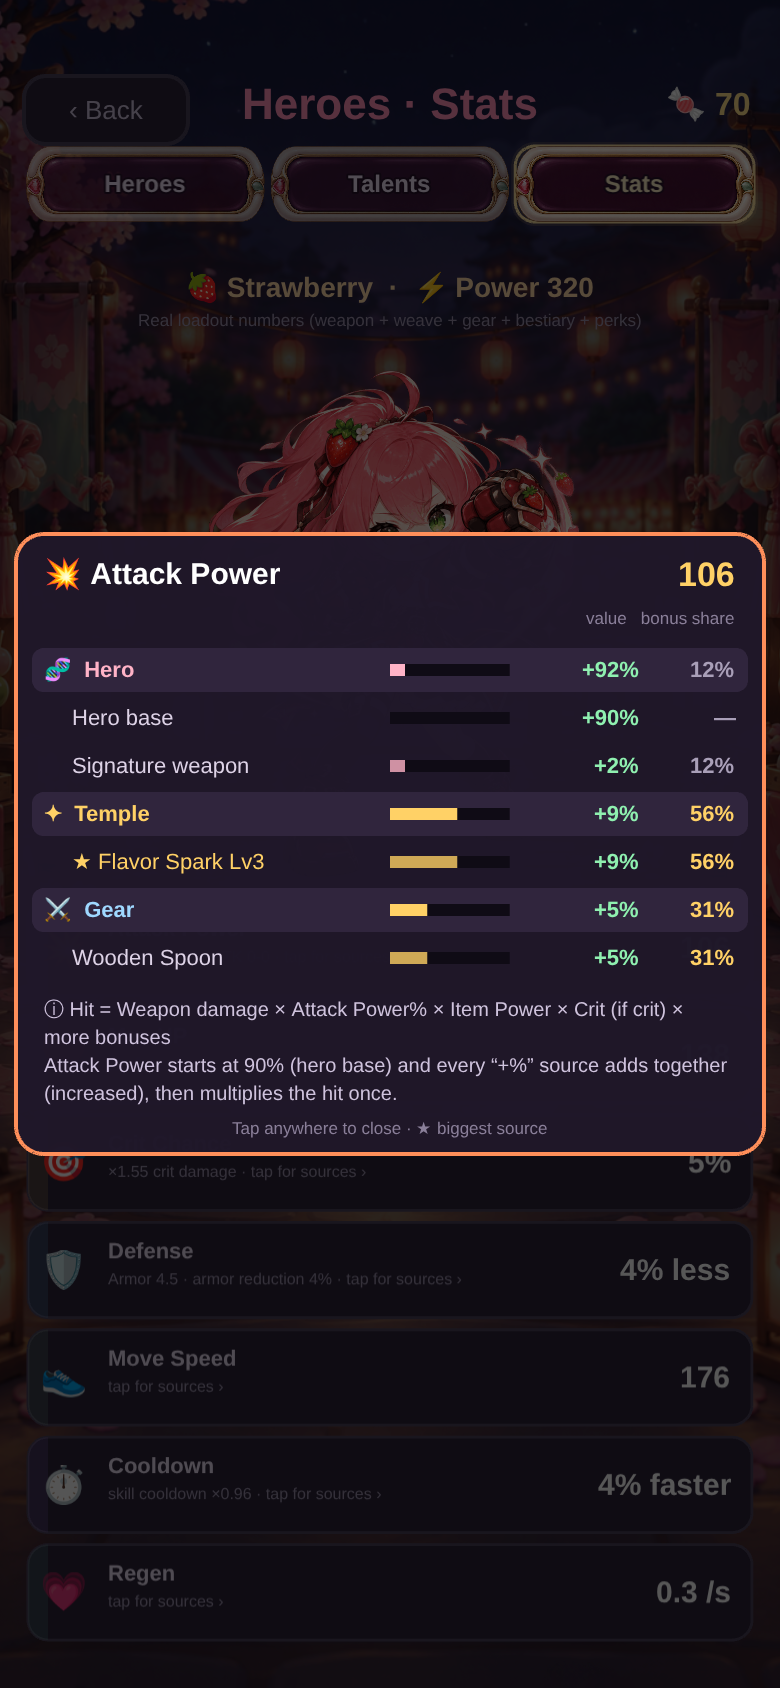
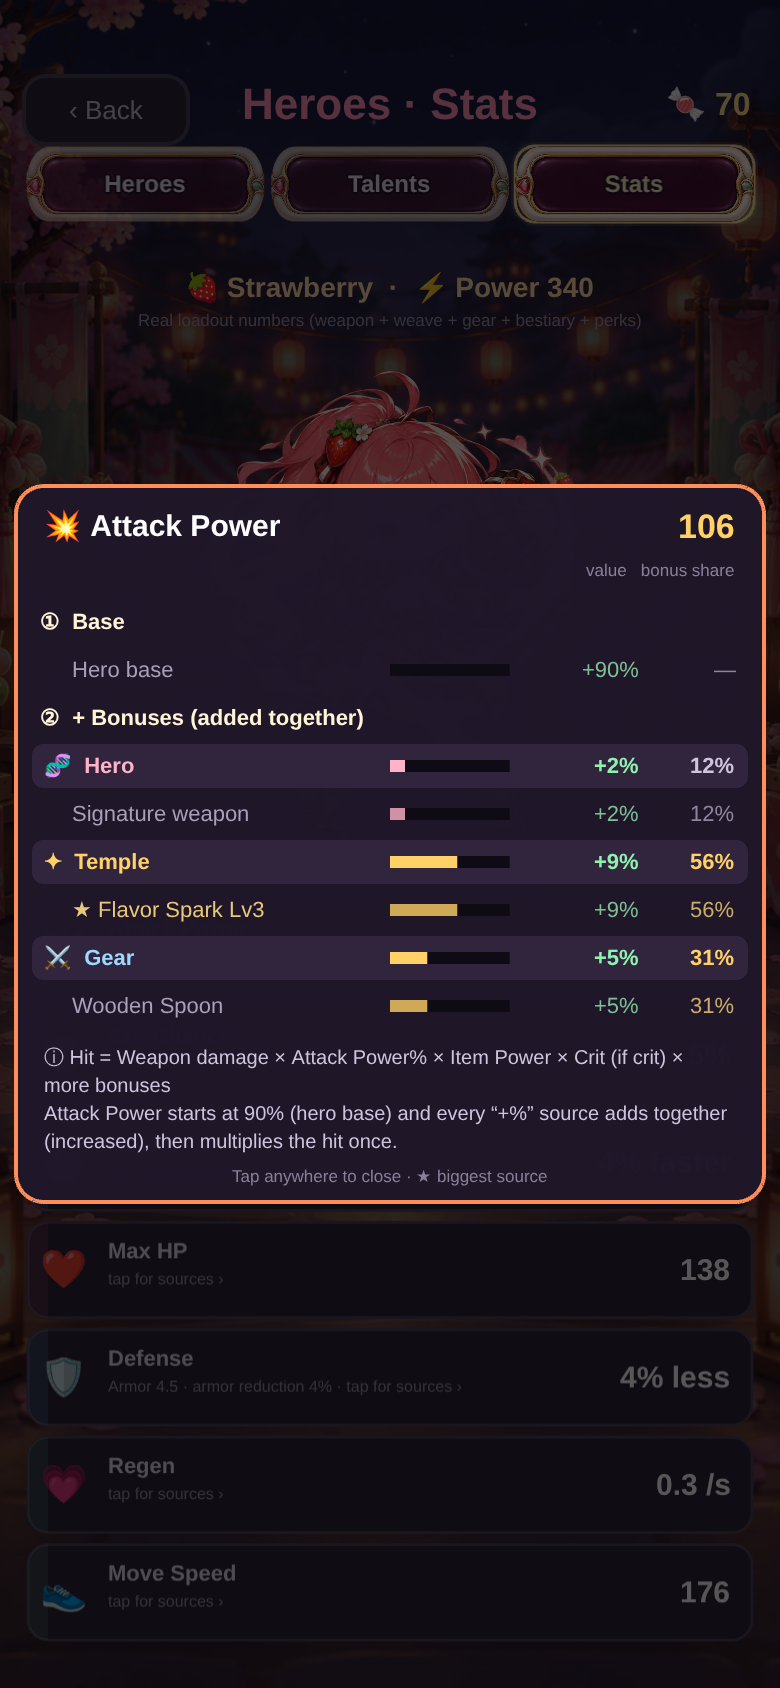
feat: order stats and breakdown by formula, soften sub-row colors (v6.55.25)
Claude-Session: https://claude.ai/code/session_01Je24fSjffqCWWdm2UGg2b2

diff --git a/game.js b/game.js
@@ -50,7 +50,7 @@ function clampPlayerStats(p){ if(p._uqGlass){p.maxhp=Math.max(1,Math.round(p.max
 const TAU = Math.PI * 2;   // global — Game scene (บอส/VFX) อ้างถึง TAU ด้วย เดิมประกาศเฉพาะใน Boot.create → "TAU is not defined"
 
 /* ---- เวอร์ชัน + บันทึกUpdates (build-www ดึงไปทำ version.json ให้หน้า download) ---- */
-const GAME_VERSION = '6.55.24';
+const GAME_VERSION = '6.55.25';
 // Miniboss rewards: choose damage at an HP cost, or recovery.
 const CROSSROADS=[
   {id:'blood',name:'Blood Pact',desc:'+25% damage for 90 seconds',detail:'Lose 30% of current HP',artKey:'prize_jackpot',color:0xff6f9d},
@@ -62,6 +62,7 @@ const RELEASES_URL = 'https://github.com/hardza1230/Survival-like-Mobile-Game/re
 // v6.55.17: HP บอส/มินิ ด่าน 3-5 (Chapter 1) ของจริง
 function realStageBossMul(i){return i===2||i===3?1.6:i===4?1.25:1;}
 const CHANGELOG = [
+  {v:'6.55.25',date:'2026-10-04',title:'Stats follow the formula',items:['Stats page ordered offense → defense → movement','Breakdown panel reads top to bottom like the formula: Base, bonuses, separate multipliers','Sub-rows use softer colors than group headers']},
   {v:'6.55.24',date:'2026-10-04',title:'Clearer stat breakdown',items:['Stat sources grouped into Hero, Temple, Gear and Progress with icons','Each source shows its share % and a bar; the biggest source is starred','Every stat explains its formula in plain words']},
   {v:'6.55.23',date:'2026-10-04',title:'Slower hero levels',items:['Hero level EXP requirement now grows faster at higher levels']},
   {v:'6.55.22',date:'2026-10-04',title:'Detailed stat sources',items:['Stat breakdown lists each talent, Weave core, gear piece, item-level bonus, mod line, set and perk separately','Gear lines show item level, enhance level and base scaling']},
@@ -6084,18 +6085,18 @@ class Game extends Phaser.Scene {
     const note=this.add.text(w/2,y,'Real loadout numbers (weapon + weave + gear + bestiary + perks)',{fontFamily:'sans-serif',fontSize:'8.5px',color:'#9a90ab'}).setOrigin(0.5); this.menu.add([hd,note]); y+=22;
     const rows=[
       ['💥','Attack Power',Math.round(p.dmgMul*100)+'','Power ×'+(p.powerMul||1).toFixed(2)+' · ATK '+(p.gearAttackMin||0)+'-'+(p.gearAttackMax||0),0xff8f5a],
-      ['❤','Max HP',Math.round(p.maxhp)+'','',0xff5f7a],
       ['🎯','Crit Chance',Math.round(p.critChance*100)+'%','×'+p.critMul.toFixed(2)+' crit damage',0xffd166],
-      ['🛡','Defense',Math.round((1-p.dmgTakenMul*armorDamageMultiplier(p))*100)+'% less','Armor '+(p.armor||0)+' · armor reduction '+Math.round((1-armorDamageMultiplier(p))*100)+'%',0x6ec6ff],
-      ['👟','Move Speed',Math.round(p.baseSpeed)+'','',0x8bd3a0],
       ['⏱','Cooldown',Math.round((1-p.cdMul)*100)+'% faster','skill cooldown ×'+p.cdMul.toFixed(2),0xb388ff],
+      ['❤','Max HP',Math.round(p.maxhp)+'','',0xff5f7a],
+      ['🛡','Defense',Math.round((1-p.dmgTakenMul*armorDamageMultiplier(p))*100)+'% less','Armor '+(p.armor||0)+' · armor reduction '+Math.round((1-armorDamageMultiplier(p))*100)+'%',0x6ec6ff],
       ['💗','Regen',((p.regen||0)+(p.regenFlat||0)).toFixed(1)+' /s','',0x66d3b3],
+      ['👟','Move Speed',Math.round(p.baseSpeed)+'','',0x8bd3a0],
     ];
     // v4.65: แนวตั้งมีที่เหลือเยอะ → ใส่อาร์ตตัวละครด้านบน แล้วขยายแถวให้เต็มจอ
     const portrait=w<=this.H,gap=6,cardW=w-28;
     if(portrait){ const artH=Math.min(260,Math.max(0,this.H-y-rows.length*(40+gap)-40)); if(artH>120){ this._characterCardArt(Save.data.character,w/2,y+artH/2,w*0.7,artH); y+=artH+8; } }
     const rh=portrait?Phaser.Math.Clamp((this.H-y-24-gap*(rows.length-1))/rows.length,40,58):40;
-    const keys=['dmgMul','maxhp','critChance','dmgTakenMul','baseSpeed','cdMul','regen'];
+    const keys=['dmgMul','critChance','cdMul','maxhp','dmgTakenMul','regen','baseSpeed'];   // v6.55.25: เรียงตามสูตร — โจมตี → ป้องกัน → เคลื่อนที่
     rows.forEach((r,i)=>{ const ry=y+i*(rh+gap),g=this.add.graphics();this._zone(14,ry,cardW,rh,()=>{Sfx.select&&Sfx.select();this.showStatSources(p,keys[i],r);}); g.fillStyle(0x2c2338,1); g.fillRoundedRect(14,ry,cardW,rh,10); g.lineStyle(1.4,0x4a4059,1); g.strokeRoundedRect(14,ry,cardW,rh,10); g.fillStyle(r[4],0.16); g.fillRoundedRect(14,ry,5,rh,{tl:10,bl:10,tr:0,br:0});
       const em=this.add.text(32,ry+rh/2,r[0],{fontSize:'19px'}).setOrigin(0.5);
       const nm=this.add.text(54,ry+8,r[1],{fontFamily:'sans-serif',fontStyle:'bold',fontSize:'11px',color:'#e8dcf0'}).setOrigin(0,0);
@@ -6119,16 +6120,19 @@ class Game extends Phaser.Scene {
     const items=[];if(tr[0])items.push({label:'Base',v:val(tr[0].s),base:true});
     for(let i=1;i<tr.length;i++){const d=val(tr[i].s)-val(tr[i-1].s);if(Math.abs(d)>1e-6)items.push({label:tr[i].label,v:d});}
     const posSum=items.reduce((a,it)=>a+(it.base?0:Math.max(0,it.v)),0)||1;let top=null;for(const it of items)if(!it.base&&it.v>0&&(!top||it.v>top.v))top=it;   // share = สัดส่วนของโบนัส (ไม่รวม Base)
-    const lines=[];GROUPS.forEach(g=>{const its=items.filter(it=>!it._g&&g.test(it.label));if(!its.length)return;its.forEach(it=>it._g=1);const sub=its.reduce((a,it)=>a+it.v,0),bsub=its.reduce((a,it)=>a+(it.base?0:Math.max(0,it.v)),0);
+    const lines=[],bIt=items.find(it=>it.base);if(bIt){bIt._g=1;lines.push({step:true,label:'①  Base'});lines.push({g:GROUPS[0],label:'Hero base',v:bIt.v,base:true,pct:0});}
+    lines.push({step:true,label:key==='dmgMul'||key==='critChance'||key==='regen'?'②  + Bonuses (added together)':key==='maxhp'?'②  + Flat, then × %':'②  × Bonuses (multiplied)'});
+    GROUPS.forEach(g=>{const its=items.filter(it=>!it._g&&g.test(it.label));if(!its.length)return;its.forEach(it=>it._g=1);const sub=its.reduce((a,it)=>a+it.v,0),bsub=its.reduce((a,it)=>a+(it.base?0:Math.max(0,it.v)),0);
       lines.push({hdr:true,g,label:g.icon+'  '+g.name,v:sub,pct:bsub/posSum*100});its.sort((a,b)=>(a.base?-1:b.base?1:b.v-a.v)).forEach(it=>lines.push({g,label:it.base?'Hero base':it.label.replace(/^(Talent|Weave|Gear|Mod|Set collection|Set|Perk) · /,''),v:it.v,base:it.base,pct:it.base?0:Math.max(0,it.v)/posSum*100,top:it===top}));});
     const FORM={dmgMul:'Hit = Weapon damage × Attack Power% × Item Power × Crit (if crit) × more bonuses\nAttack Power starts at 90% (hero base) and every “+%” source adds together (increased), then multiplies the hit once.',
       maxhp:'Max HP = Base 90 + flat HP sources, then × % HP sources (Vigor, Resolve, Ancient).',
       critChance:'Crit chance = sum of all crit % · Crit hit = damage × Crit damage ('+'×'+p.critMul.toFixed(2)+')',
       dmgTakenMul:'Damage taken = Hit × 100/(100+Armor) × each “less damage” source multiplied together.\nArmor gives less and less as it grows — never reaches 100%.',
       baseSpeed:'Speed = Base × each % speed source multiplied.',cdMul:'Cooldown = Base cooldown × each “faster” source multiplied.',regen:'Regen = sum of all HP/s sources.'};
-    if(key==='dmgMul'&&(p.powerMul||1)!==1)lines.push({note:true,label:'⚡ Weapon Item Power ×'+p.powerMul.toFixed(2)+' (multiplies separately)'});
-    if(key==='critChance')lines.push({note:true,label:'💥 Crit damage ×'+p.critMul.toFixed(2)});
-    if(key==='dmgTakenMul')lines.push({note:true,label:'🛡 Armor '+Math.round(p.armor||0)+' → −'+Math.round((1-armorDamageMultiplier(p))*100)+'% damage'});
+    const multi=[];if(key==='dmgMul'&&(p.powerMul||1)!==1)multi.push({note:true,label:'⚡ Weapon Item Power ×'+p.powerMul.toFixed(2)+' (multiplies separately)'});
+    if(key==='critChance')multi.push({note:true,label:'💥 Crit damage ×'+p.critMul.toFixed(2)});
+    if(key==='dmgTakenMul')multi.push({note:true,label:'🛡 Armor '+Math.round(p.armor||0)+' → −'+Math.round((1-armorDamageMultiplier(p))*100)+'% damage'});
+    if(multi.length){lines.push({step:true,label:'③  × Separate multipliers'});lines.push(...multi);}
     const ov=this.add.container(0,0).setDepth(150000),bg=this.add.rectangle(w/2,h/2,w,h,0x000000,0.66),pw=Math.min(w-16,430),px=(w-pw)/2;
     const ftxt=this.add.text(0,0,'ⓘ '+(FORM[key]||''),{fontFamily:'sans-serif',fontSize:'10px',color:'#cfc3dd',wordWrap:{width:pw-28},lineSpacing:2});
     const avail=h-60-64-ftxt.height-24,rh=Math.max(14,Math.min(24,avail/Math.max(1,lines.length))),ph=64+lines.length*rh+ftxt.height+24,py=Math.max(24,(h-ph)/2),g=this.add.graphics();
@@ -6137,11 +6141,12 @@ class Game extends Phaser.Scene {
     const hc=this.add.text(px+pw-14,py+42,'value   bonus share',{fontFamily:'sans-serif',fontSize:'8.5px',color:'#8a7f99'}).setOrigin(1,0.5);ov.add([bg,g,t,tv,hc]);
     const fs=rh<18?'9.5px':'11px',barX=px+pw*0.50,barW=pw*0.16;
     lines.forEach((l,i)=>{const ly=py+56+i*rh+rh/2;
+      if(l.step){ov.add(this.add.text(px+12,ly,l.label,{fontFamily:'sans-serif',fontStyle:'bold',fontSize:fs,color:'#fff4d6'}).setOrigin(0,0.5));return;}
       if(l.note){ov.add(this.add.text(px+14,ly,l.label,{fontFamily:'sans-serif',fontSize:fs,color:'#ffd9a8'}).setOrigin(0,0.5));return;}
       if(l.hdr){const hb=this.add.graphics();hb.fillStyle(0x30253d,1);hb.fillRoundedRect(px+8,ly-rh/2+1,pw-16,rh-2,6);ov.add(hb);}
-      const x0=l.hdr?px+14:px+28,a=this.add.text(x0,ly,(l.top?'★ ':'')+l.label,{fontFamily:'sans-serif',fontStyle:l.hdr?'bold':'normal',fontSize:fs,color:l.top?'#ffd166':l.hdr?l.g.col:'#ddd2e6',fixedWidth:barX-x0-6}).setOrigin(0,0.5);
-      const b=this.add.text(px+pw-62,ly,fmt(l.v),{fontFamily:'sans-serif',fontStyle:'bold',fontSize:fs,color:l.v<0?'#ff9bb5':'#8ff0b0'}).setOrigin(1,0.5);
-      const pc=this.add.text(px+pw-14,ly,l.v>0&&!l.base?Math.round(l.pct)+'%':'—',{fontFamily:'sans-serif',fontStyle:'bold',fontSize:fs,color:l.pct>=30?'#ffd166':'#a99fb8'}).setOrigin(1,0.5);
+      const x0=l.hdr?px+14:px+28,a=this.add.text(x0,ly,(l.top?'★ ':'')+l.label,{fontFamily:'sans-serif',fontStyle:l.hdr?'bold':'normal',fontSize:fs,color:l.top?'#e8c87a':l.hdr?l.g.col:'#a99fb8',fixedWidth:barX-x0-6}).setOrigin(0,0.5);
+      const b=this.add.text(px+pw-62,ly,fmt(l.v),{fontFamily:'sans-serif',fontStyle:l.hdr?'bold':'normal',fontSize:fs,color:l.v<0?(l.hdr?'#ff9bb5':'#c98a9c'):(l.hdr?'#8ff0b0':'#7fbf96')}).setOrigin(1,0.5);
+      const pc=this.add.text(px+pw-14,ly,l.v>0&&!l.base?Math.round(l.pct)+'%':'—',{fontFamily:'sans-serif',fontStyle:l.hdr?'bold':'normal',fontSize:fs,color:l.pct>=30?(l.hdr?'#ffd166':'#c9ad6a'):(l.hdr?'#cfc3dd':'#8f859e')}).setOrigin(1,0.5);
       const bar=this.add.graphics();bar.fillStyle(0x0f0b15,1);bar.fillRect(barX,ly-3,barW,6);if(l.v>0&&!l.base){bar.fillStyle(l.top||l.pct>=30?0xffd166:Phaser.Display.Color.HexStringToColor(l.g.col).color,l.hdr?1:0.8);bar.fillRect(barX,ly-3,barW*Math.min(1,l.pct/100),6);}
       ov.add([a,b,pc,bar]);});
     ftxt.setPosition(px+14,py+56+lines.length*rh+8);ov.add(ftxt);

diff --git a/CLAUDE.md b/CLAUDE.md
@@ -229,7 +229,8 @@ Dedicated deterministic forge WAVs for manual/auto roulette, visual tick cadence
 - **v6.55.23 (เจ้าของ: เลเวลตัวละครขึ้นไว):** `charExpNeed` 40+35l → 50+40·l^1.35 (สะสมถึง Lv10 2.3k→4.8k, Lv20 8.2k→21.6k) · `characterExpProgress` เปลี่ยนเป็นวนลูป · **รอเจ้าของเลือก: talent เฉพาะสาย**
 - **v6.55.24 (เจ้าของ: แผงที่มา stat ให้จัดกลุ่ม/ไอคอน/% Pareto/สูตร):** `showStatSources` เขียนใหม่ · กลุ่ม 🧬 Hero / ✦ Temple / ⚔ Gear / 🏆 Progress / 🔒 Limits (หัวกลุ่ม + ยอดรวม) · ทุกแถว value + แถบ + bonus share % (คิดเฉพาะโบนัส ไม่รวม Hero base) · ★ แหล่งใหญ่สุด, ≥30% สีทอง · กล่อง ⓘ สูตรอ่านง่ายต่อ stat (Attack Power = 90% base + increased บวกกัน แล้วคูณ Item Power/Crit) · **บั๊ก:** ช่องว่าง 'None' (tier start) ได้โบนัส iLv → `applyItemLevelBonus` ข้าม tier start · ตรวจภาพด้วย Chromium (`/opt/pw-browsers` ใช้ได้ในเครื่องนี้) ภาพที่ docs/previews/stats_sources_v6_55_24.png
 - **งานถัดไปที่เจ้าของจองไว้: Talent เฉพาะสาย** ตาม `docs/TALENT_PATH_DESIGN.md` (ยังรอตอบ 3 คำถามท้ายไฟล์)
-- **เวอร์ชันปัจจุบัน v6.55.24** (`GAME_VERSION`) · สาขา `claude/gallant-shannon-vx0est` · Monster animation commit 1–6 เสร็จ (ดูหัวไฟล์)
+- **v6.55.25 (เจ้าของ: เรียงตามสูตร + กลุ่มย่อยสีอ่อนกว่า):** หน้า Stats เรียง Attack Power → Crit → Cooldown → Max HP → Defense → Regen → Move Speed · แผงที่มาเป็นขั้น ① Base → ② Bonuses (บวกกัน/คูณกัน ตาม stat) → ③ × Separate multipliers (Item Power/Crit dmg/Armor) · แถวย่อยตัวหนังสือ/ตัวเลข/% สีอ่อนและไม่หนา หัวกลุ่มเข้มหนา
+- **เวอร์ชันปัจจุบัน v6.55.25** (`GAME_VERSION`) · สาขา `claude/gallant-shannon-vx0est` · Monster animation commit 1–6 เสร็จ (ดูหัวไฟล์)
 - **งานค้าง:** (1) Monster animation commit 7 Chapter 2 ด่าน 1–2 รวม Sporeling → 8 Nectar รวม Tiny Grub → 9 Season/Root → 10 Elite/summon รวม Mini Jelly + Chapter 3 generic Elite + รีวิวภาพ/ประสิทธิภาพบนมือถือ (`docs/MONSTER_ANIMATION_PLAN.md`) (2) รีวิวบนมือถือจริงที่ค้าง: Mint Piercer balance เท่านั้น (เจ้าของทดสอบผ่านแล้ว 4 ต.ค. 2026: monster animation 2–6, VFX batch 1–5, Boss Loot Keep/Double/Reroll, เสียงทั้งหมด) (3) Play Store (พักไว้): ลบบัญชีในแอป, store listing, keystore, closed test
 - **v6.54.9 (เจ้าของ: อยากได้การ์ดสุ่มแบบ Jackpot แทน):** onBossDown → `openBossLootCards` (การ์ดคว่ำ 3 ใบจาก 7 ชนิด: Sugar/Currency/พลั่ว/ด้าย/🔩/หินแก่น/Gear · JACKPOT 25%+10%/ระดับยาก) แล้วค่อย revealStageReward · openMysteryCards รับ opt {prizes,title,hint} + fallback emoji ถ้าไม่มี artKey · ยกเลิก Sugar Bounty v6.54.8 (บอสยังไม่ดรอป orb/หัวใจ)
 - **v6.54.8 (เจ้าของ: ของดรอปบอสไร้ประโยชน์เพราะจบด่าน):** killEnemy บอสใหญ่ไม่ dropOrb/dropHeal → Sugar Bounty (60+30·stage)×diff reward เข้า sugarStage ตรง + แบนเนอร์ · มินิ/elite ดรอปเหมือนเดิม
